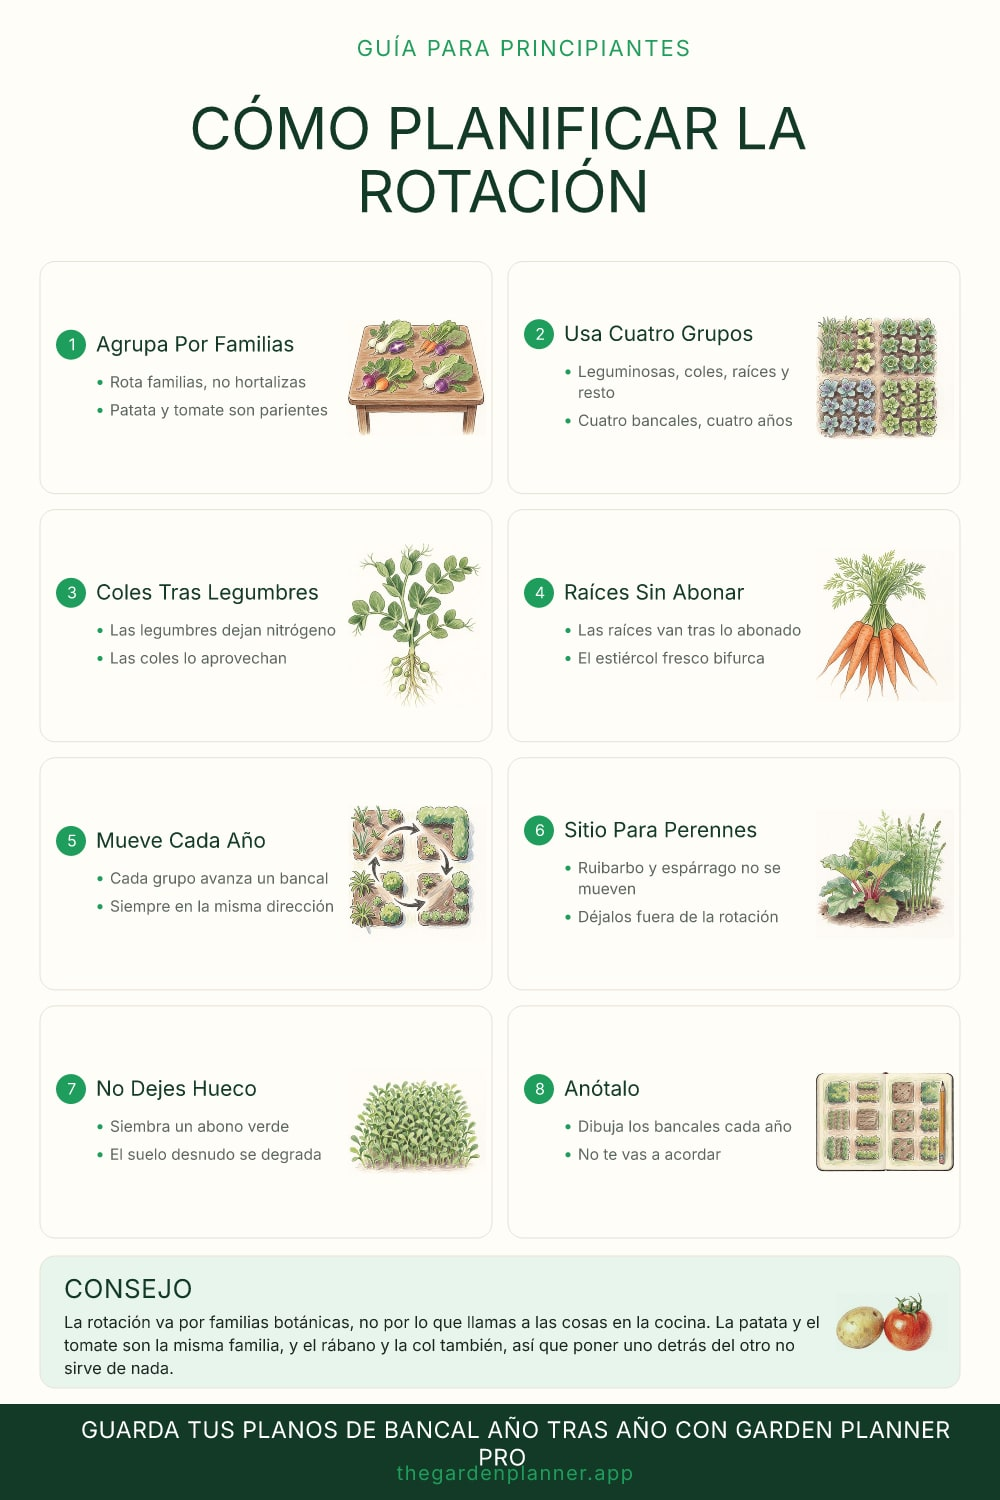
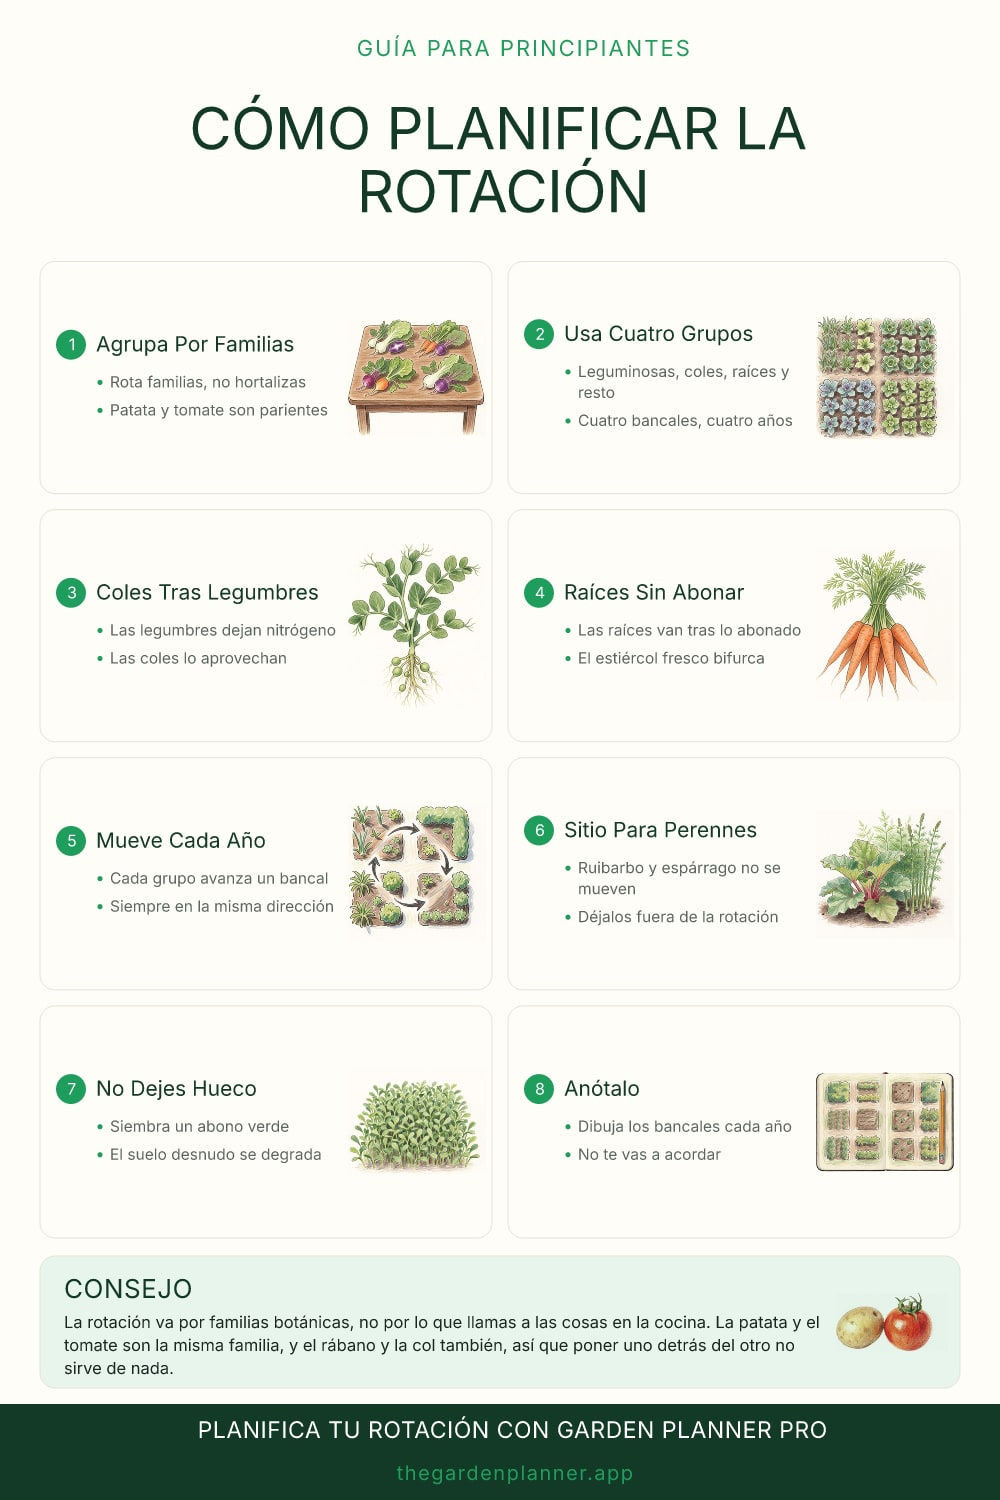
Publish infographics: how-to-store-winter-squash, how-to-plan-crop-rotation

Changed region(s): [[0.186, 0.9507, 0.837, 0.9813], [0.868, 0.9507, 0.93, 0.9813], [0.093, 0.9507, 0.155, 0.9813]]

diff --git a/src/content/blog/es/como-guardar-calabazas-de-invierno.md b/src/content/blog/es/como-guardar-calabazas-de-invierno.md
@@ -1,0 +1,113 @@
+---
+title: "Cómo Guardar Calabazas de Invierno: Guía para Principiantes en 8 Pasos"
+description: "Ocho pasos para que la calabaza aguante hasta la primavera, desde la prueba de la uña en el huerto hasta el único tipo que nunca hay que curar."
+date: "2026-10-03"
+tags:
+    - "harvest"
+    - "food preservation"
+    - "squash"
+    - "infographics"
+type: "infographic"
+lang: "es"
+translationKey: "store-winter-squash"
+infographicLayout: "guide"
+infographicTitle: "Cómo guardar calabazas"
+infographicImage: "/assets/blog/como-guardar-calabazas-de-invierno-infographic.jpg"
+imageAlt: "Cómo guardar calabazas"
+guideSteps:
+    - icon: "pumpkin-on-vine"
+      label: "Espera Corteza Dura"
+      bullets:
+          - "La uña no debe marcarla"
+          - "El color no indica madurez"
+    - icon: "frost-calendar"
+      label: "Antes De La Helada"
+      bullets:
+          - "La fruta helada no se guarda"
+          - "Cubre la parcela si hace falta"
+    - icon: "pumpkin-on-vine"
+      label: "Corta Con Pedúnculo"
+      bullets:
+          - "Deja un palmo de rabo"
+          - "Con tijeras, nunca retorciendo"
+    - icon: "pumpkin-on-board"
+      label: "Cárgala Por Debajo"
+      bullets:
+          - "Nunca la levantes del rabo"
+          - "Un rabo suelto es una herida"
+    - icon: "dry-brown-leaves"
+      label: "Sécala Con Un Paño"
+      bullets:
+          - "Paño, no lavarla"
+          - "El agua en la corteza pudre"
+    - icon: "cured-pumpkins"
+      label: "Cúrala En Calor"
+      bullets:
+          - "Unos diez días, cálido y aireado"
+          - "Endurece la piel"
+    - icon: "acorn-squash-single"
+      label: "La Bellota No"
+      bullets:
+          - "Curada aguanta menos"
+          - "Directa al almacén"
+    - icon: "squash-spaced-shelf"
+      label: "Fresco Y Separadas"
+      bullets:
+          - "Seco y unos diez grados"
+          - "Sin tocarse, revisar cada semana"
+guideProTip:
+  label: "Consejo"
+  text: "No cojas nunca una calabaza por el rabo. Si el pedúnculo se suelta has abierto un agujero directo a la pulpa, y esa pieza pasa de durar meses a durar semanas."
+  icon: "curing-onions"
+guideCta: "Registra tu cosecha en Garden Planner Pro"
+pinDescription: "Cómo guardar calabazas de invierno: espera a que la corteza resista la uña, córtala dejando un buen trozo de pedúnculo, cúrala unos diez días en un sitio cálido y guárdala fresca y seca sin que se toquen entre ellas. La calabaza bellota es la excepción y no se cura."
+pinBoard: "Vegetable Garden Layouts"
+pinKeywords:
+    - "storing winter squash"
+    - "curing pumpkins"
+    - "fall harvest storage"
+    - "food preservation"
+draft: false
+---
+
+La calabaza de invierno es de los pocos cultivos que de verdad se conservan meses sin congelador, sin tarros y sin ningún procesado. Casi todo lo que decide si la tuya lo hará ocurre en las dos semanas que rodean a la cosecha.
+
+Y un tipo muy popular quiere justo el trato contrario a todos los demás.
+
+## Saber cuándo está lista de verdad
+
+El color es lo que todo el mundo mira y es la señal menos fiable. Una butternut se pone beige mucho antes de estar lista para guardar, y muchas variedades cogen color con semanas de antelación.
+
+La prueba que funciona es la corteza. Aprieta la uña con firmeza en algún punto discreto. En una calabaza madura no deja marca, y la uña resbala sobre una superficie que se nota más a madera que a hortaliza. Si se marca, la pieza necesita más tiempo en la mata.
+
+Hay dos señales que lo confirman: el pedúnculo, donde se une al fruto, se seca y se vuelve corchoso y pálido, y el zarcillo más cercano al fruto suele haberse secado. La mata en sí suele tener muy mal aspecto para entonces, cosa que preocupa sin motivo.
+
+El plazo lo pone la primera helada de verdad. Una helada suave sobre las hojas se supera, pero la helada sobre el fruto daña la pulpa bajo la corteza y esa calabaza se pudrirá en el almacén en vez de conservarse. Si anuncian helada y las cortezas están casi hechas, echa una manta sobre la parcela esa noche en vez de cosecharlo todo verde.
+
+## El manejo, que importa más de lo que parece
+
+Corta cada fruto con tijeras o cuchillo dejando un buen palmo de pedúnculo pegado. No lo arranques retorciendo.
+
+Ese pedúnculo es un tapón. Donde se une al fruto hay una pequeña abertura, y mientras el rabo siga entero y seco la mantiene cerrada. Si el rabo se sale, has dejado una herida abierta en lo alto de la calabaza que el moho encuentra en pocos días. Esta es la causa más común de que una calabaza guardada falle pronto, y suele ocurrir justo al llevarla dentro de casa.
+
+Así que llévala con una mano por debajo, como un cuenco, y nunca por el asa que acabas de dejar con tanto cuidado. Déjalas en el suelo en vez de soltarlas, porque un golpe que no se ve se convierte en una mancha blanda en noviembre.
+
+Limpia la tierra con un paño seco. Si una pieza viene muy embarrada, un paño apenas húmedo vale, pero sécala justo después. No laves ni apiles calabazas mojadas.
+
+## El curado, y la excepción
+
+Curar es tener el fruto cosechado en un sitio cálido y aireado unos diez días. La piel endurece, los arañazos pequeños cicatrizan y la pulpa se endulza al convertirse los almidones. Sirve un porche soleado, un cobertizo templado o una habitación libre; en una sola capa, sin tocarse y con aire alrededor.
+
+La calabaza bellota es la excepción, y conviene saberlo porque se cultiva mucho. A las bellota el curado no las mejora. El calor las deja fibrosas y acorta su conservación, así que van directas del huerto al almacén fresco. Lo mismo vale para la delicata y casi todas las de piel fina, que duran poco hagas lo que hagas y conviene comerse primero.
+
+Todo lo de piel gruesa quiere curado: butternut, hubbard, kabocha, espagueti y las calabazas de pastel.
+
+## Dónde pasan el invierno
+
+Fresco, seco, oscuro y aireado. El objetivo son unos diez grados, que en la mayoría de las casas significa una habitación de invitados, un rellano o un pasillo sin calefacción antes que un sótano, porque la humedad da más problemas que el calor.
+
+No las metas en la nevera, ni en una caja cerrada, ni apiladas en un cajón. Extiéndelas en una sola capa sobre una estantería o un cartón, con un hueco entre cada una, para que la que empiece a estropearse no se lleve por delante a las vecinas.
+
+Pasa por delante una vez por semana y míralas. Cualquier reblandecimiento, cualquier mancha húmeda, cualquier olor, y esa sale y se cocina esa misma noche. Bien hecho, una butternut sigue entera la primavera siguiente, y una hubbard más todavía.
+
+**Consejo.** No cojas nunca una calabaza por el rabo. Si el pedúnculo se suelta has abierto un agujero directo a la pulpa, y esa pieza pasa de durar meses a durar semanas.

diff --git a/src/content/blog/how-to-store-winter-squash.md b/src/content/blog/how-to-store-winter-squash.md
@@ -1,0 +1,113 @@
+---
+title: "How to Store Winter Squash: A Beginner's Guide in 8 Steps"
+description: "Eight steps to squash that keeps until spring, from the thumbnail test in the garden to the one type you should never cure."
+date: "2026-10-03"
+tags:
+    - "harvest"
+    - "food preservation"
+    - "squash"
+    - "infographics"
+type: "infographic"
+lang: "en"
+translationKey: "store-winter-squash"
+infographicLayout: "guide"
+infographicTitle: "How to store winter squash"
+infographicImage: "/assets/blog/how-to-store-winter-squash-infographic.jpg"
+imageAlt: "How to store winter squash"
+guideSteps:
+    - icon: "pumpkin-on-vine"
+      label: "Wait For Hard Rind"
+      bullets:
+          - "A thumbnail should not dent it"
+          - "Colour alone is not ripeness"
+    - icon: "frost-calendar"
+      label: "Beat The First Frost"
+      bullets:
+          - "Frosted fruit will not keep"
+          - "Cover the patch if needed"
+    - icon: "pumpkin-on-vine"
+      label: "Cut A Long Stem"
+      bullets:
+          - "Leave a handspan of stem"
+          - "Use shears, never twist"
+    - icon: "pumpkin-on-board"
+      label: "Carry It Underneath"
+      bullets:
+          - "Never lift by the stem"
+          - "A pulled stem is an open wound"
+    - icon: "dry-brown-leaves"
+      label: "Wipe It Dry"
+      bullets:
+          - "Cloth, not a wash"
+          - "Water on the rind invites rot"
+    - icon: "cured-pumpkins"
+      label: "Cure It Warm"
+      bullets:
+          - "About ten days, warm and airy"
+          - "Hardens the skin for storage"
+    - icon: "acorn-squash-single"
+      label: "Skip Curing Acorns"
+      bullets:
+          - "Acorn squash keeps worse cured"
+          - "Store it straight away"
+    - icon: "squash-spaced-shelf"
+      label: "Store Cool And Apart"
+      bullets:
+          - "Dry, around fifty degrees"
+          - "Not touching, checked weekly"
+guideProTip:
+  label: "Pro tip"
+  text: "Never carry a squash by its stem. If the stem pulls out you have opened a hole straight into the flesh, and that fruit now has weeks rather than months."
+  icon: "curing-onions"
+guideCta: "Track your harvest in Garden Planner Pro"
+pinDescription: "How to store winter squash: leave it until the rind resists a thumbnail, cut it with a long stem handle, cure it somewhere warm for about ten days, then store it cool and dry with the fruits not touching. Acorn squash is the exception and skips curing."
+pinBoard: "Vegetable Garden Layouts"
+pinKeywords:
+    - "storing winter squash"
+    - "curing pumpkins"
+    - "fall harvest storage"
+    - "food preservation"
+draft: false
+---
+
+Winter squash is one of the few crops that genuinely keeps for months without a freezer, a jar or any processing at all. Most of what decides whether yours does happens in the two weeks around harvest.
+
+And one popular type wants the opposite treatment from all the others.
+
+## Knowing when it is actually ready
+
+Colour is the thing everyone goes by and it is the least reliable signal. A butternut turns tan long before it is ready to store, and plenty of varieties colour up weeks early.
+
+The test that works is the rind. Press a thumbnail into it firmly somewhere inconspicuous. On a ripe squash it will not dent, and your nail slides off a surface that feels more like wood than vegetable. If it marks, the fruit needs longer on the vine.
+
+Two other signs back it up: the stem where it meets the fruit goes dry, corky and pale, and the tendril nearest the fruit has usually browned off. The vine itself often looks dreadful by then, which worries people unnecessarily.
+
+The deadline is the first real frost. A light frost on the leaves is survivable, but frost on the fruit damages the flesh under the rind and the squash will rot in storage rather than keeping. If a frost is forecast and the rinds are close, throw a blanket over the patch for the night rather than harvesting everything unripe.
+
+## Handling, which matters more than it sounds
+
+Cut each fruit with shears or a knife, leaving a generous handspan of stem attached. Do not twist it off the vine.
+
+That stem is a seal. Where it joins the fruit there is a small opening, and while the stem is intact and dry it plugs it. Pull the stem out and you have left an open wound in the top of the squash that mould finds within days. This is the single most common reason a stored squash fails early, and it usually happens at the moment of carrying it indoors.
+
+So carry each one with a hand underneath, like a bowl, and never by the handle you just carefully left on. Set them down rather than dropping them, since a bruise you cannot see becomes a soft patch in November.
+
+Wipe the dirt off with a dry cloth. If a fruit is genuinely muddy, a cloth barely damp with water is fine, but dry it straight afterwards. Do not wash and stack wet squash.
+
+## Curing, and the exception
+
+Curing means keeping the harvested fruit somewhere warm and airy for about ten days. The skin hardens, small scratches seal over, and the flesh sweetens as starches convert. A sunny porch, a warm shed, or a spare room works; single layer, not touching, with air moving round them.
+
+Acorn squash is the exception, and it is worth knowing because it is widely grown. Acorns do not improve with curing. Warm storage makes them stringy and shortens how long they keep, so take them straight from the garden into cool storage. The same caution applies to delicata and most other thin-skinned types, which are short keepers whatever you do and are best eaten first.
+
+Everything thick-skinned wants curing: butternut, hubbard, kabocha, spaghetti squash, pumpkins for pie.
+
+## Where they spend the winter
+
+Cool, dry, dark and airy. Somewhere around fifty degrees is the target, which in most houses means a spare bedroom, a landing, or an unheated hallway rather than a cellar, because damp is more of a problem than warmth.
+
+Do not put them in the fridge, do not put them in a sealed box, and do not stack them in a crate. Lay them out in a single layer on a shelf or a piece of cardboard with a gap between each one, so that a fruit that starts to go does not take its neighbours with it.
+
+Walk past them once a week and look. Any softening, any damp patch, any smell, and that one comes out and gets eaten or cut up that evening. Done properly, a butternut will still be sound the following spring, and a hubbard longer than that.
+
+**Pro tip.** Never carry a squash by its stem. If the stem pulls out you have opened a hole straight into the flesh, and that fruit now has weeks rather than months.

diff --git a/src/content/blog/es/como-planificar-la-rotacion-de-cultivos.md b/src/content/blog/es/como-planificar-la-rotacion-de-cultivos.md
@@ -59,7 +59,7 @@ guideProTip:
   label: "Consejo"
   text: "La rotación va por familias botánicas, no por lo que llamas a las cosas en la cocina. La patata y el tomate son la misma familia, y el rábano y la col también, así que poner uno detrás del otro no sirve de nada."
   icon: "potato-and-tomato"
-guideCta: "Guarda tus planos de bancal año tras año con Garden Planner Pro"
+guideCta: "Planifica tu rotación con Garden Planner Pro"
 pinDescription: "Cómo planificar la rotación de cultivos: agrupa por familias botánicas, divide el huerto en cuatro bancales y mueve cada grupo un bancal cada año. El único registro que necesitas es una nota de qué creció dónde."
 pinBoard: "Vegetable Garden Layouts"
 pinKeywords:
